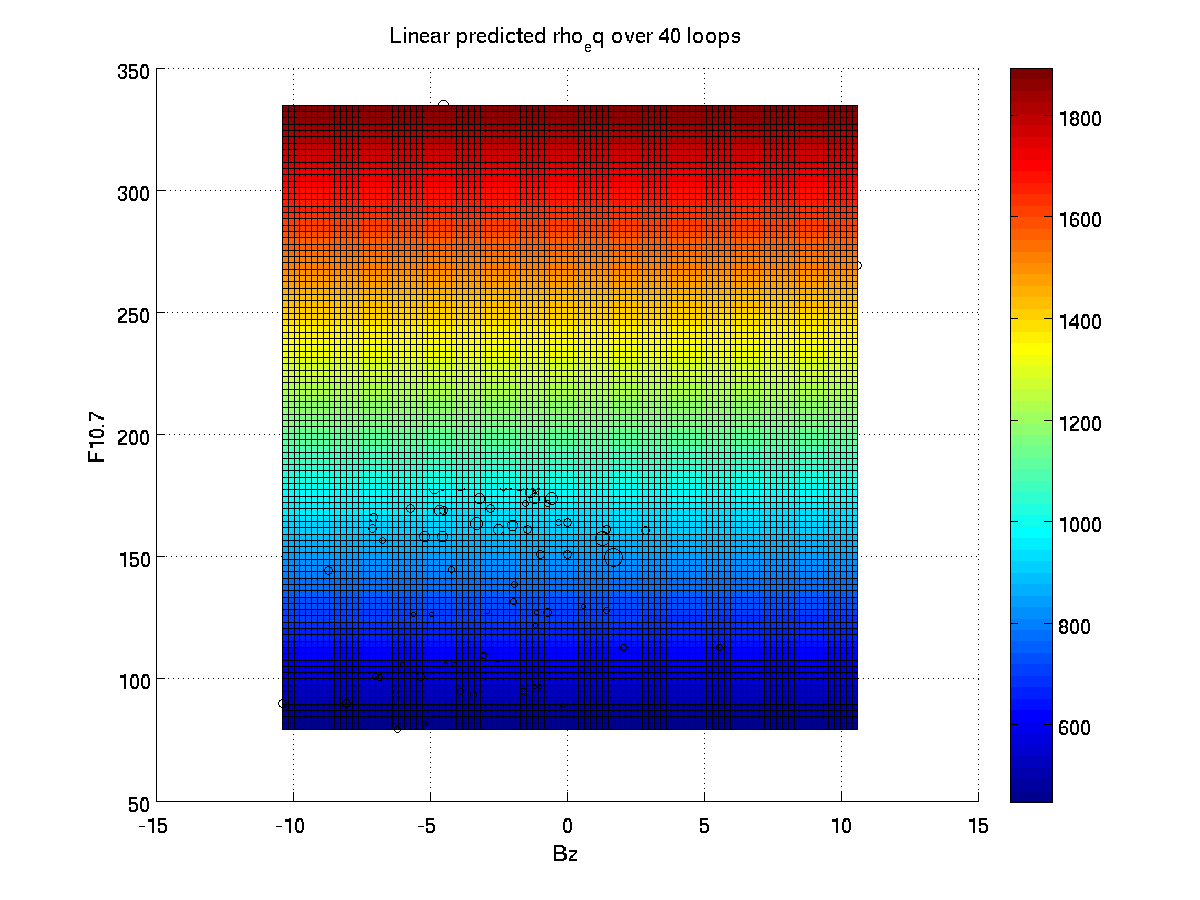
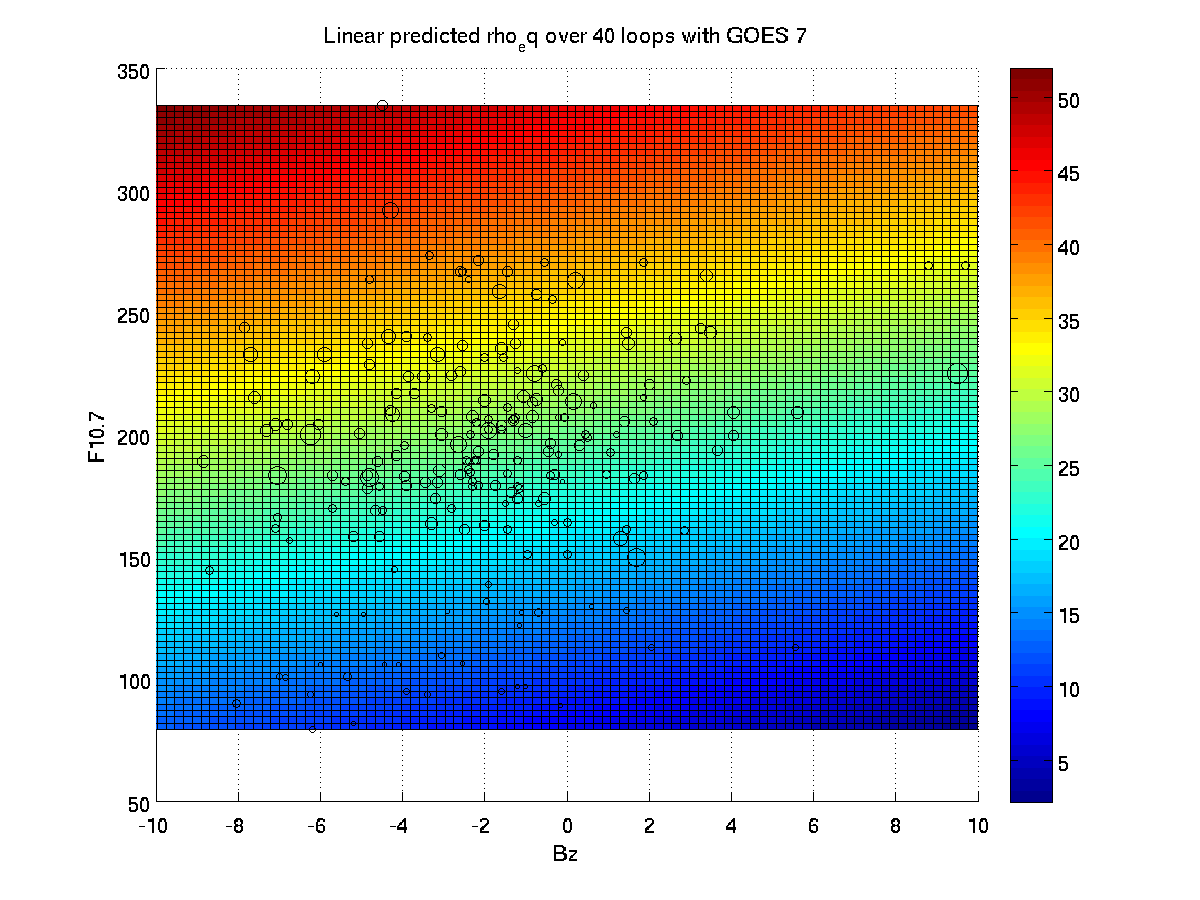
Fixed linear scaling

diff --git a/nnbehavior2.m b/nnbehavior2.m
@@ -75,17 +75,19 @@ if(plotv)
     colorbar
     print('-dpng',sprintf('figures/NN%s-sd-GOES%d.png',strjoin(plotvars,'-'),satnum))
     
-    coef=target\x;
+    coef=[x ones(length(x),1)]\target;
     [Zx, Zy]=meshgrid(xtest,ytest);
-    Z=Zx.*coef(1)+Zy.*coef(2);
+    Z=Zx.*coef(1)+Zy.*coef(2)+1.*coef(3);
     figure;
     surf(xtest,ytest,Z)
     view(0,90)
     ylabel(plotvars{2})
     xlabel(plotvars{1})
+    xlim([-10,10])
+    zlim([0,50])
     title(sprintf('Linear predicted %s over %d loops with GOES %d',plotvars{3},loops,satnum))
     colorbar
-    hold on; scatter3(x(:,1),x(:,2),repmat(100000,1,length(x(:,1))),target,'k')
+    hold on; scatter3(x(:,1),x(:,2),repmat(50,1,length(x(:,1))),target,'k')
     print('-dpng',sprintf('figures/Linear%s-GOES%d.png',strjoin(plotvars,'-'),satnum))
     
 end
